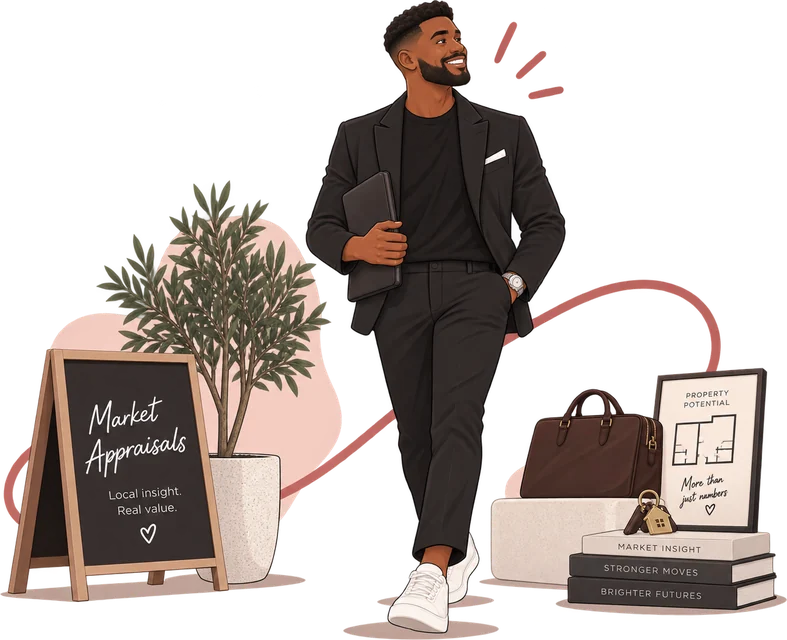
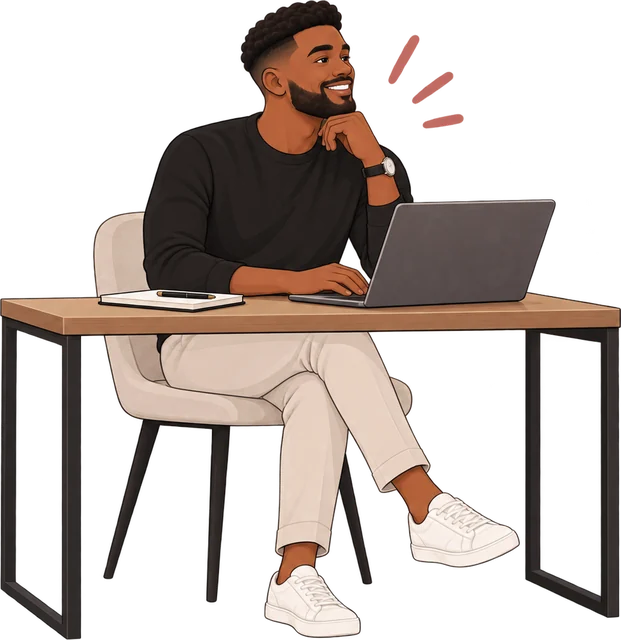
One dropdown for the whole OS, and appraisals moves to the desk
Leads and Portfolio had their own copies of the same generic dropdown -
three separate implementations of one idea, which is how four variations of a
control end up on four screens. Both now use PickOne, and both local copies
are deleted.

Generalising it needed two things the appraisals picker did not:

  An "any" row, because a filter always has an unfiltered state, where the
  date range carries its own catch-all and cannot hold null.

  A way to say WHICH option means unfiltered. Without it the appraisals
  picker lit up as an active filter while showing every date - the opposite
  of what a highlight is for. `neutral` names the catch-all; on means
  narrowed, and nothing else.

A chosen filter now reads as on, the way the old ones did, or somebody takes
a narrowed list for the whole book.

Also: James swapped the appraisals artwork for the same man at a desk. 0.9704
against the old 1.2292, so squarer, and at 330 it stands the same height as
the dashboard and leads scenes with the desk legs and his shoe cut at the
rule. 60K, the lightest of the three.

diff --git a/app/(os)/portfolio/page.tsx b/app/(os)/portfolio/page.tsx
@@ -17,6 +17,7 @@ import {
   type CertKey, type CertStatus, type CompProperty,
 } from "@/lib/compliance";
 import type { ManagedBook, ManagedLandlord, ManagedProperty, Party } from "@/lib/portfolio-types";
+import PickOne from "@/components/PickOne";
 
 /**
  * Portfolio — the managed book. Every property the business looks after,
@@ -123,57 +124,6 @@ const needsLook = (s: CertSummary | null) => !!s && (s.worst === "expired" || s.
 /* ---------------------------------------------------------------- bits -- */
 
 /** The dropdown chip — same grammar as Listings and Leads. */
-function Filter({
-  label, options, value, onChange,
-}: {
-  label: string;
-  options: { id: string; label: string }[];
-  value: string | null;
-  onChange: (v: string | null) => void;
-}) {
-  const [open, setOpen] = useState(false);
-  const current = options.find((o) => o.id === value);
-  return (
-    <div className="relative">
-      <button
-        type="button"
-        onClick={() => setOpen((o) => !o)}
-        className={`flex items-center gap-2 whitespace-nowrap rounded-full border px-3.5 py-2 text-[12px] transition-colors ${
-          current
-            ? "border-accent-dark bg-accent-soft/50 font-semibold text-accent-dark"
-            : "border-line/80 text-muted hover:border-ink/40 hover:text-ink"
-        }`}
-      >
-        {current?.label ?? label}
-        <span className="text-[9px]">▾</span>
-      </button>
-      {open && (
-        <>
-          <button type="button" aria-label="Close" onClick={() => setOpen(false)} className="fixed inset-0 z-[60] cursor-default" />
-          <div className="fade-up absolute left-0 top-full z-[70] mt-1.5 max-h-[60vh] min-w-[200px] overflow-y-auto rounded-2xl border border-line/80 bg-card p-1.5 shadow-[0_16px_40px_-14px_rgba(0,0,0,0.3)]">
-            <button
-              type="button"
-              onClick={() => { onChange(null); setOpen(false); }}
-              className={`block w-full rounded-lg px-3 py-2 text-left text-[12px] transition-colors hover:bg-accent-soft/40 ${value === null ? "font-semibold text-accent-dark" : ""}`}
-            >
-              {label}
-            </button>
-            {options.map((o) => (
-              <button
-                key={o.id}
-                type="button"
-                onClick={() => { onChange(o.id); setOpen(false); }}
-                className={`block w-full whitespace-nowrap rounded-lg px-3 py-2 text-left text-[12px] transition-colors hover:bg-accent-soft/40 ${value === o.id ? "font-semibold text-accent-dark" : ""}`}
-              >
-                {o.label}
-              </button>
-            ))}
-          </div>
-        </>
-      )}
-    </div>
-  );
-}
 
 function StatCard({ label, value, hint }: { label: string; value: React.ReactNode; hint?: React.ReactNode }) {
   return (
@@ -780,9 +730,9 @@ export default function Portfolio() {
               ))}
             </div>
             <span className="hidden h-6 w-px bg-line/80 sm:block" />
-            <Filter label="Service" options={services} value={service} onChange={setService} />
-            {everything && <Filter label="Agent" options={agents} value={agent} onChange={setAgent} />}
-            <Filter label="Town" options={towns} value={town} onChange={setTown} />
+            <PickOne label="Service" options={services} value={service} onChange={setService} />
+            {everything && <PickOne label="Agent" options={agents} value={agent} onChange={setAgent} />}
+            <PickOne label="Town" options={towns} value={town} onChange={setTown} />
             <button
               type="button"
               disabled={certs.status !== "ready"}
@@ -795,7 +745,7 @@ export default function Portfolio() {
             <button type="button" onClick={() => setNotOnRexOnly((v) => !v)} className={pillClass(notOnRexOnly)} title="Homes REX PM manages that REX either has no property for, or does not mark as let">
               Not on REX
             </button>
-            <Filter label="Sort" options={SORTS} value={sort} onChange={setSort} />
+            <PickOne label="Sort" options={SORTS} value={sort} onChange={setSort} />
           </div>
 
           {book && filtering && (

diff --git a/app/(os)/leads/page.tsx b/app/(os)/leads/page.tsx
@@ -12,6 +12,7 @@ import SourceMark from "@/components/SourceMark";
 import { ColumnCustomiser, DataTable, useColumns, type ColumnDef } from "@/components/TableColumns";
 import { Pill } from "@/components/Wire";
 import { LEADS, STAGE_TONE, leadSide, type Lead } from "@/lib/leads-sample";
+import PickOne from "@/components/PickOne";
 
 /**
  * Leads: one inbox for every channel, with the record open beside it.
@@ -23,68 +24,6 @@ import { LEADS, STAGE_TONE, leadSide, type Lead } from "@/lib/leads-sample";
 
 /** A filter that filters: pick a value, the list narrows, the chip wears
  *  the choice; "All …" hands the rows back. */
-function Filter({
-  label,
-  options,
-  value,
-  onChange,
-}: {
-  label: string;
-  options: string[];
-  value: string | null;
-  onChange: (v: string | null) => void;
-}) {
-  const [open, setOpen] = useState(false);
-  return (
-    <div className="relative">
-      <button
-        type="button"
-        onClick={() => setOpen((o) => !o)}
-        className={`flex items-center gap-2 whitespace-nowrap rounded-full border px-3.5 py-2 text-[12px] transition-colors ${
-          value
-            ? "border-accent-dark bg-accent-soft/50 font-semibold text-accent-dark"
-            : "border-line/80 text-muted hover:border-ink/40 hover:text-ink"
-        }`}
-      >
-        {value ?? label}
-        <span className="text-[9px]">▾</span>
-      </button>
-      {open && (
-        <>
-          <button
-            type="button"
-            aria-label="Close"
-            onClick={() => setOpen(false)}
-            className="fixed inset-0 z-[60] cursor-default"
-          />
-          <div className="fade-up absolute left-0 top-full z-[70] mt-1.5 max-h-72 min-w-[170px] overflow-y-auto rounded-2xl border border-line/80 bg-card p-1.5 shadow-[0_16px_40px_-14px_rgba(0,0,0,0.3)]">
-            <button
-              type="button"
-              onClick={() => { onChange(null); setOpen(false); }}
-              className={`block w-full rounded-lg px-3 py-2 text-left text-[12px] transition-colors hover:bg-accent-soft/40 ${
-                value === null ? "font-semibold text-accent-dark" : ""
-              }`}
-            >
-              {label}
-            </button>
-            {options.map((o) => (
-              <button
-                key={o}
-                type="button"
-                onClick={() => { onChange(o); setOpen(false); }}
-                className={`block w-full whitespace-nowrap rounded-lg px-3 py-2 text-left text-[12px] transition-colors hover:bg-accent-soft/40 ${
-                  value === o ? "font-semibold text-accent-dark" : ""
-                }`}
-              >
-                {o}
-              </button>
-            ))}
-          </div>
-        </>
-      )}
-    </div>
-  );
-}
 
 interface LeadSource {
   leads: Lead[];
@@ -343,9 +282,9 @@ export default function Leads() {
           {/* The search itself is the bar under the header - one search per
               page (James, 6 Sep 2026). This row is only the filters. */}
           <div className="flex flex-wrap items-center gap-2.5">
-            <Filter label="All sources" options={sources} value={fSource} onChange={setFSource} />
-            <Filter label="All agents" options={agents} value={fAgent} onChange={setFAgent} />
-            <Filter label="All stages" options={stages} value={fStage} onChange={setFStage} />
+            <PickOne label="All sources" options={sources.map((o) => ({ id: o, label: o }))} value={fSource} onChange={setFSource} />
+            <PickOne label="All agents" options={agents.map((o) => ({ id: o, label: o }))} value={fAgent} onChange={setFAgent} />
+            <PickOne label="All stages" options={stages.map((o) => ({ id: o, label: o }))} value={fStage} onChange={setFStage} />
             <ColumnCustomiser cols={cols} />
           </div>
 

diff --git a/components/PickOne.tsx b/components/PickOne.tsx
@@ -28,18 +28,37 @@ export default function PickOne<T extends string>({
   value,
   onChange,
   icon,
+  clearable = true,
+  neutral,
 }: {
-  /** Shown when nothing is chosen, and as the menu's heading. */
+  /** Shown on the button when nothing is chosen, and as the "any" row. */
   label: string;
   options: { id: T; label: string }[];
-  value: T;
-  onChange: (v: T) => void;
+  value: T | null;
+  onChange: (v: T | null) => void;
   icon?: string;
+  /**
+   * Whether the list carries an "any" row that clears the choice.
+   *
+   * True for a filter, which always has an unfiltered state. False where the
+   * options already include their own catch-all and null is not a value the
+   * page can hold - the appraisals date range being exactly that.
+   */
+  clearable?: boolean;
+  /**
+   * The option that means "not filtered", where one of the options IS the
+   * catch-all rather than null being it. Without this the appraisals picker
+   * lights up as an active filter while it is showing every date, which is
+   * the opposite of what the highlight is for.
+   */
+  neutral?: T;
 }) {
   const [open, setOpen] = useState(false);
   const [at, setAt] = useState<{ top: number; left: number; width: number } | null>(null);
   const btn = useRef<HTMLButtonElement | null>(null);
   const current = options.find((o) => o.id === value);
+  /* On means NARROWED. Null is not narrowed, and neither is the catch-all. */
+  const on = value !== null && value !== neutral;
 
   const place = useCallback(() => {
     const r = btn.current?.getBoundingClientRect();
@@ -70,7 +89,11 @@ export default function PickOne<T extends string>({
         className={`flex items-center gap-2 whitespace-nowrap rounded-full border px-4 py-2.5 text-[12.5px] transition-colors ${
           open
             ? "border-ink bg-panel text-ink"
-            : "border-line/80 bg-panel text-muted hover:border-ink/40 hover:text-ink"
+            : on
+              ? /* A filter that is ON has to look on, or somebody reads a
+                   narrowed list as the whole book. */
+                "border-accent-dark bg-accent-soft/50 font-semibold text-accent-dark"
+              : "border-line/80 bg-panel text-muted hover:border-ink/40 hover:text-ink"
         }`}
       >
         {icon && <DoodleIcon name={icon} size={13} />}
@@ -91,6 +114,18 @@ export default function PickOne<T extends string>({
             className="fade-up fixed z-[201] max-h-[60vh] overflow-auto rounded-2xl border border-line/80 bg-card p-1.5 shadow-[0_18px_44px_-14px_rgba(0,0,0,0.34)]"
             style={{ top: at.top, left: at.left, minWidth: Math.max(at.width, 168) }}
           >
+            {clearable && (
+              <button
+                type="button"
+                onClick={() => { onChange(null); setOpen(false); }}
+                className={`flex w-full items-center justify-between gap-4 rounded-lg px-3 py-2 text-left text-[12.5px] transition-colors hover:bg-accent-soft/40 ${
+                  value === null ? "font-semibold text-accent-dark" : ""
+                }`}
+              >
+                {label}
+                {value === null && <span aria-hidden className="text-[11px]">✓</span>}
+              </button>
+            )}
             {options.map((o) => (
               <button
                 key={o.id}

diff --git a/app/(os)/market-appraisals/page.tsx b/app/(os)/market-appraisals/page.tsx
@@ -170,17 +170,17 @@ export default function MarketAppraisals() {
       <PageHeader
         title="Market Appraisals"
         blurb="Booked, prepared, appraised, won. Everything between a landlord saying yes to a visit and signing terms."
-        /* His hair starts at 0.003 of the artwork - there is no empty margin
-           above him at all - so this one cannot bleed off the top the way the
-           dashboard does without taking his head with it. 330 matches the
-           dashboard's height and still clears the top of the page.
+        /* His hair starts near the very top of the artwork, so this one
+           cannot bleed off the top the way the dashboard does without taking
+           his head with it. 330 matches the height the other two scenes
+           stand at.
 
            Pushed down 4% so the shadows under his feet run into the line and
            are erased by it, rather than the whole scene stopping politely
            above the rule. */
         illustration="/illustrations/appraisals.webp"
         illustrationHeight={330}
-        illustrationAspect={1.2292}
+        illustrationAspect={0.9704}
         seat={0.96}
         illustrationCrop
         lineBreak="none"
@@ -193,7 +193,11 @@ export default function MarketAppraisals() {
               icon="calendar"
               options={PERIODS.map((p) => ({ id: p.id, label: p.label }))}
               value={period}
-              onChange={setPeriod}
+              onChange={(v) => setPeriod((v ?? "any") as PeriodId)}
+              /* PERIODS carries its own "Any date", and the page cannot hold
+                 null, so no second any row. */
+              clearable={false}
+              neutral="any"
             />
             {/* List or tiles. Two ways of reading the same rows: a list to
                 work down, tiles to take in. Nothing is hidden in either.
